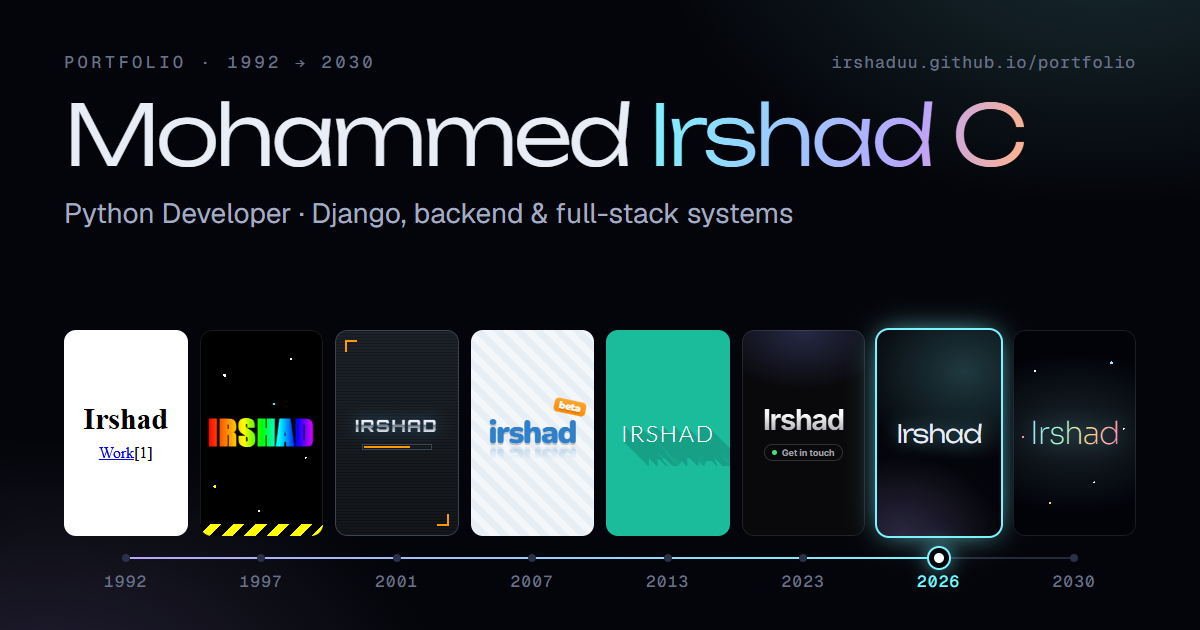
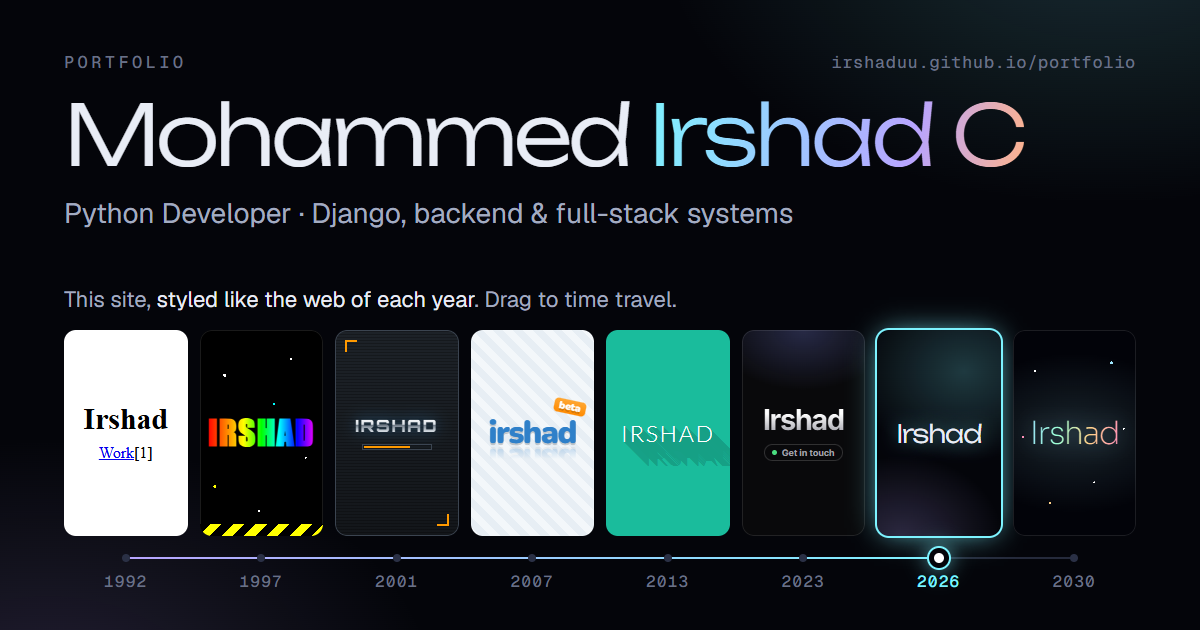
Make the link preview read as web styles, not a 1992-2030 career
"Portfolio · 1992 → 2030" beside the name read like a work history.
The card now says just "Portfolio", and a line above the tiles says
"This site, styled like the web of each year. Drag to time travel."
The og:description says the same.

Changed region(s): [[0.0617, 0.4524, 0.555, 0.5127], [0.185, 0.0905, 0.3083, 0.1206]]

diff --git a/tools/share-card.html b/tools/share-card.html
@@ -35,7 +35,9 @@
   .role { margin-top: 20px; color: #a3acc0; }
 
   /* ---- the same name in eight eras, on the time machine ---- */
-  ol { margin-top: auto; display: grid; grid-template-columns: repeat(8, var(--w)); gap: var(--gap); list-style: none; }
+  .cap { position: relative; margin-top: auto; font-size: 22px; color: #a3acc0; }
+  .cap b { display: inline; font-weight: 400; color: #e9edf6; }
+  ol { margin-top: 18px; display: grid; grid-template-columns: repeat(8, var(--w)); gap: var(--gap); list-style: none; }
   ol::before, ol::after { content: ""; position: absolute; top: calc(var(--line) - 1px); height: 2px; border-radius: 2px; }
   ol::before { left: calc(var(--w) / 2); right: calc(var(--w) / 2); background: rgb(170 190 255 / .2); }
   ol::after { left: calc(var(--w) / 2); width: calc(6 * (var(--w) + var(--gap))); background: linear-gradient(90deg, #b8a4ff, #7df3ff); }
@@ -140,11 +142,12 @@
 </head>
 <body>
   <header>
-    <p class="top"><span>Portfolio · 1992 → 2030</span><span>irshaduu.github.io/portfolio</span></p>
+    <p class="top"><span>Portfolio</span><span>irshaduu.github.io/portfolio</span></p>
     <h1>Mohammed <span>Irshad C</span></h1>
     <p class="role">Python Developer · Django, backend &amp; full-stack systems</p>
   </header>
 
+  <p class="cap">This site, <b>styled like the web of each year</b>. Drag to time travel.</p>
   <ol>
     <li class="e1992"><div class="tile"><b>Irshad</b><small>Work</small></div><span class="year">1992</span></li>
     <li class="e1997"><div class="tile"><b>IRSHAD</b></div><span class="year">1997</span></li>

diff --git a/index.html b/index.html
@@ -7,7 +7,7 @@
   <meta name="description" content="Mohammed Irshad C, Python developer in Kerala: Django, backend and full-stack systems. One page, eight eras of the web. Drag the time machine back to 1992, or ahead to 2030.">
   <meta name="theme-color" content="#04050a">
   <meta property="og:title" content="Mohammed Irshad C · Python Developer">
-  <meta property="og:description" content="My portfolio, from 1992 to 2030. Drag the time machine.">
+  <meta property="og:description" content="My portfolio, styled like the web of each year from 1992 to 2030. Drag the time machine.">
   <meta property="og:type" content="website">
   <meta property="og:url" content="https://irshaduu.github.io/portfolio/">
   <!-- Link previews need an absolute address. The picture is tools/share-card.html, photographed. -->
